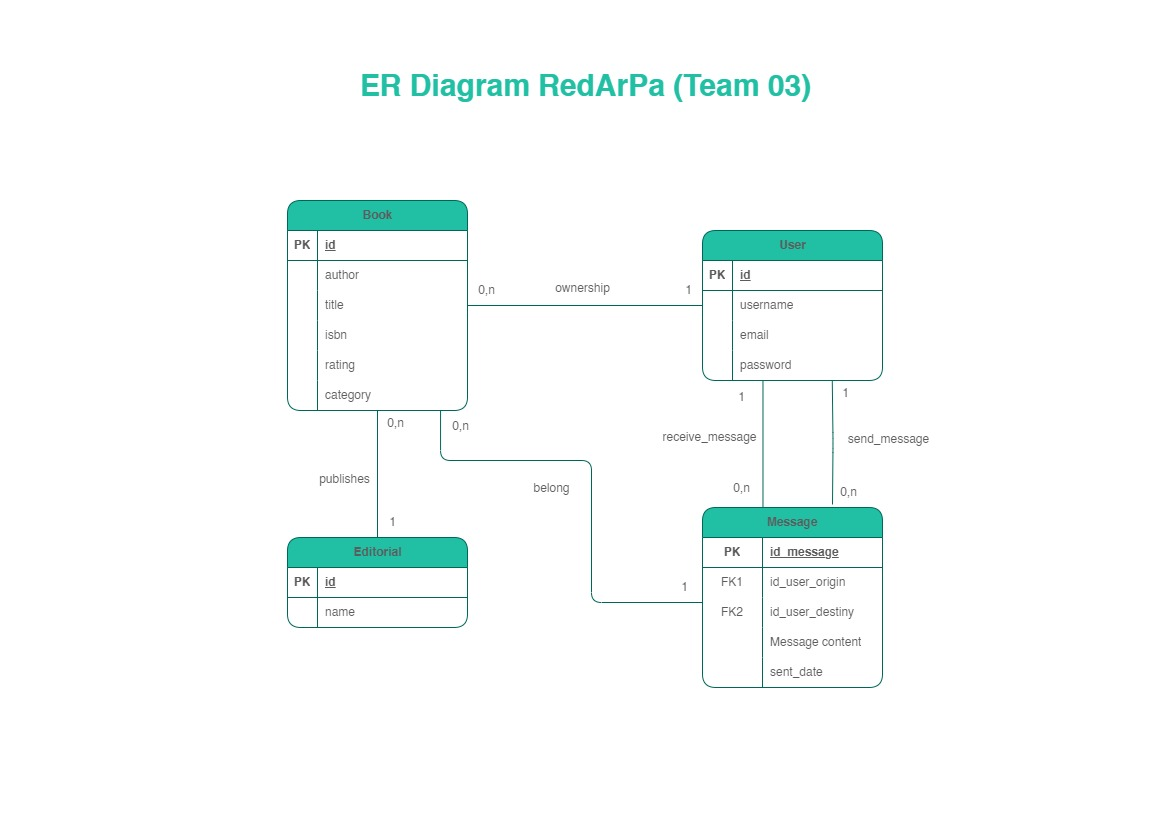
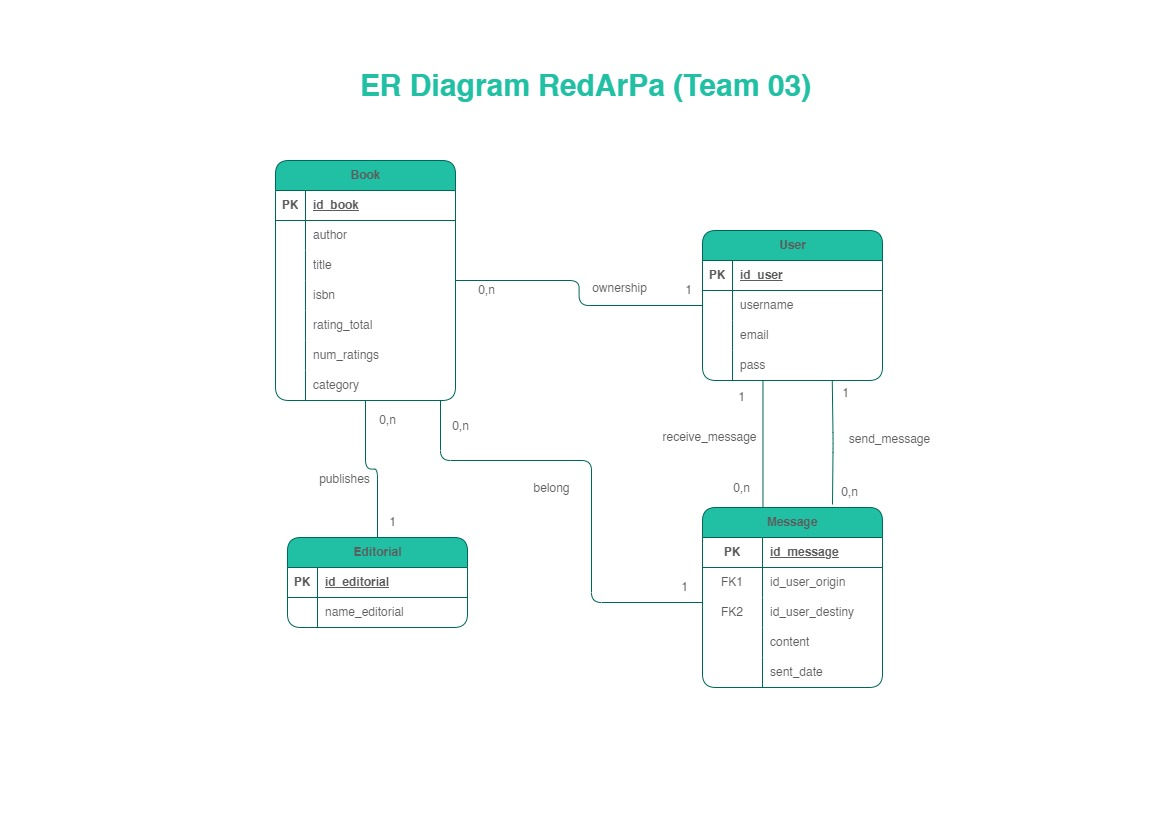
Minor corrections

diff --git a/BookMatch_Backend/src/main/java/com/redarpa/bookmatch/controller/BookController.java b/BookMatch_Backend/src/main/java/com/redarpa/bookmatch/controller/BookController.java
@@ -18,61 +18,92 @@ import com.redarpa.bookmatch.service.BookServiceImp;
 @RestController
 @RequestMapping("/api")
 public class BookController {
-	
+
 	@Autowired
 	BookServiceImp bookServiceImp;
-	
+
 	@GetMapping("/books")
-	public List<Book> listBooks(){
+	public List<Book> listBooks() {
 		return bookServiceImp.listAllBooks();
 	}
-	
-	
+
+	@GetMapping("/books/{id}/rating")
+	public double bookRatingById(@PathVariable(name = "id") Long id) {
+
+		Book bookById = new Book();
+		
+		
+		bookById = bookServiceImp.bookById(id);
+		double rating_total = bookById.getRating_total();
+		double num_rating = bookById.getNum_ratings();
+		
+		double rating = rating_total / num_rating;
+
+		System.out.println("------------rating ----: " + rating);
+
+		return rating;
+	}
+
 	@PostMapping("/books")
 	public Book saveBook(@RequestBody Book book) {
 		return bookServiceImp.saveBook(book);
 	}
-	
-	
+
 	@GetMapping("/books/{id}")
-	public Book bookById(@PathVariable(name="id") Long id) {
-		
+	public Book bookById(@PathVariable(name = "id") Long id) {
+
 		Book bookById = new Book();
-		
+
 		bookById = bookServiceImp.bookById(id);
-		
-		System.out.println("Book by Id: "+bookById);
-		
+
+		System.out.println("Book by Id: " + bookById);
+
 		return bookById;
 	}
 	
-	@PutMapping("/books/{id}")
-	public Book updateBook(@PathVariable(name="id")Long id,@RequestBody Book book) {
-		
+	@PutMapping("/books/{id}/rating")
+	public Book updateBookRating(@PathVariable(name = "id") Long id, @RequestBody Book book) {
+
 		Book selectedBook = new Book();
 		Book updatedBook = new Book();
-		
+
 		selectedBook = bookServiceImp.bookById(id);
 		
+		selectedBook.setRating_total(selectedBook.getRating_total() + book.getRating_total());
+		selectedBook.setNum_ratings(book.getNum_ratings() + 1);
+
+		updatedBook = bookServiceImp.updateBook(selectedBook);
+
+		System.out.println("Updated book is: " + updatedBook);
+
+		return updatedBook;
+	}
+
+	@PutMapping("/books/{id}")
+	public Book updateBook(@PathVariable(name = "id") Long id, @RequestBody Book book) {
+
+		Book selectedBook = new Book();
+		Book updatedBook = new Book();
+
+		selectedBook = bookServiceImp.bookById(id);
+
 		selectedBook.setAuthor(book.getAuthor());
 		selectedBook.setTitle(book.getTitle());
 		selectedBook.setIsbn(book.getIsbn());
 		selectedBook.setCategory(book.getCategory());
-		selectedBook.setRating_total(book.getRating_total());
-		selectedBook.setNum_ratings(book.getNum_ratings());
 		selectedBook.setUser(book.getUser());
 		selectedBook.setEditorial(book.getEditorial());
-		
+
 		updatedBook = bookServiceImp.updateBook(selectedBook);
-		
-		System.out.println("Updated book is: "+ updatedBook);
-		
+
+		System.out.println("Updated book is: " + updatedBook);
+
 		return updatedBook;
 	}
-	
+
 	@DeleteMapping("/books/{id}")
-	public void deleteBook(@PathVariable(name="id")Long id) {
+	public void deleteBook(@PathVariable(name = "id") Long id) {
 		bookServiceImp.deleteBook(id);
 	}
-	
+
 }
